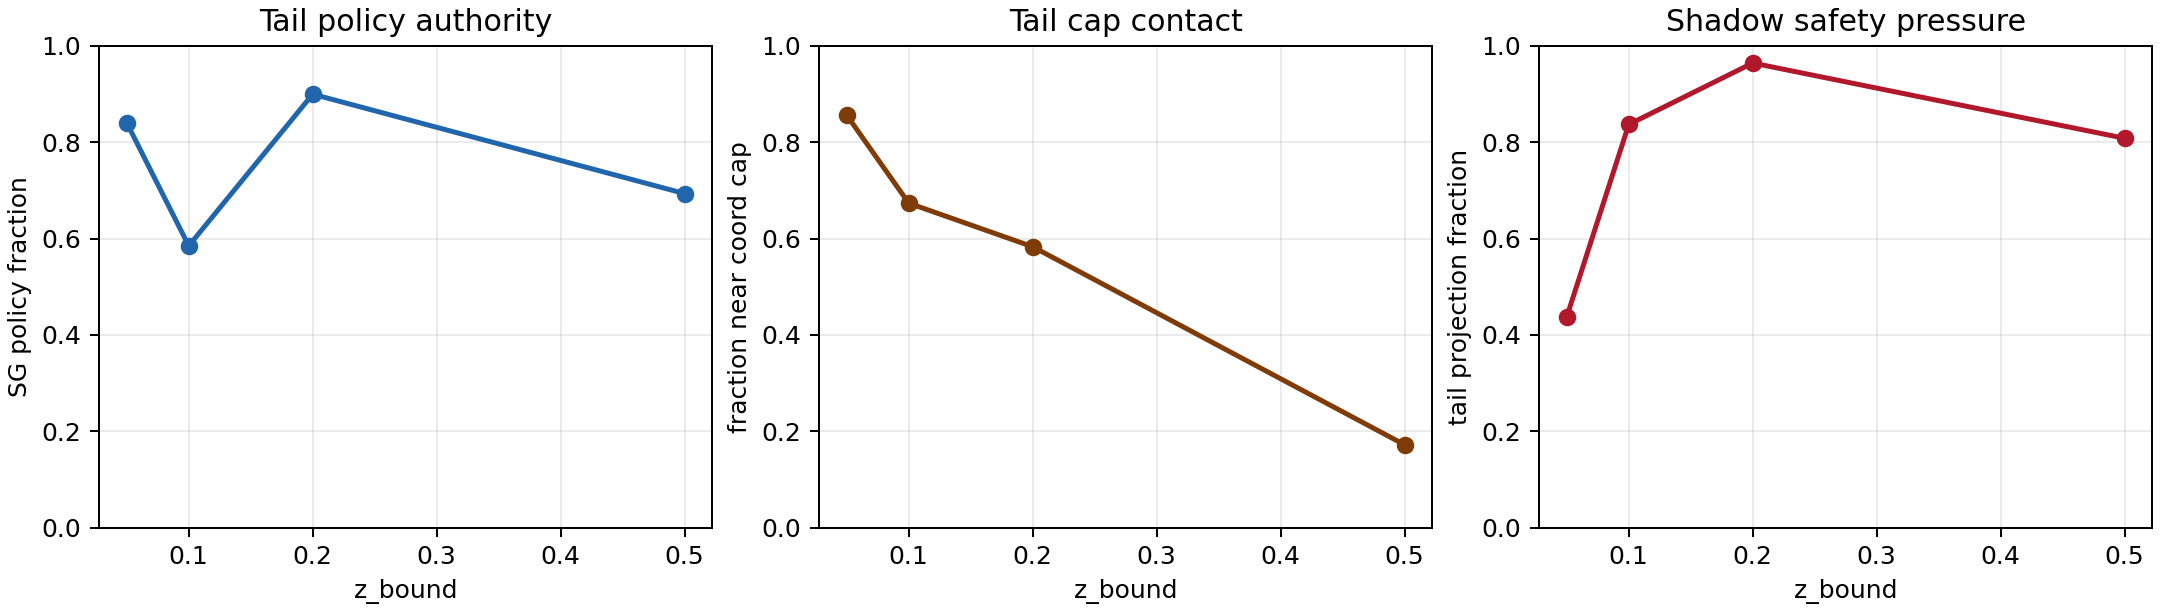
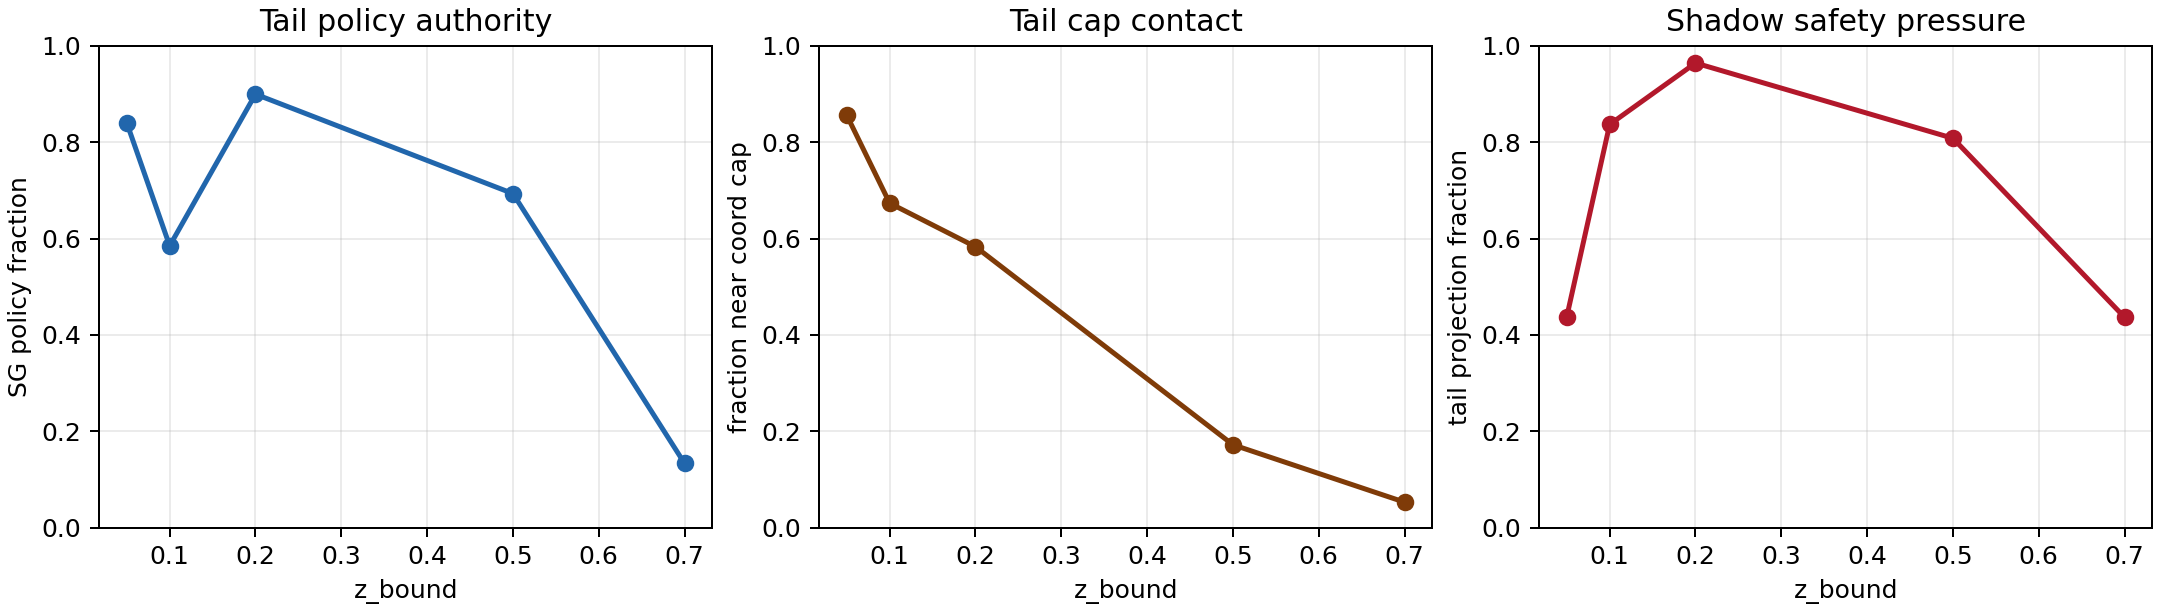
Update polymer Markov z bound analysis for margin run

diff --git a/report/scripts/analyze_polymer_markov_zbound_20260609.py b/report/scripts/analyze_polymer_markov_zbound_20260609.py
@@ -70,6 +70,7 @@ def window_stats(values: np.ndarray, sl: slice) -> tuple[float, float, float]:
 def summarize_run(z_bound: float, rl_path: Path, compare_path: Path | None) -> dict[str, object]:
     data = load_pickle(rl_path)
     compare = load_pickle(compare_path) if compare_path else {}
+    supervisor_gate = data.get("supervisor_gate", {})
 
     rewards_rl = np.asarray(compare.get("avg_rewards_rl", data.get("avg_rewards", [])), float).reshape(-1)
     rewards_mpc = np.asarray(compare.get("avg_rewards_mpc", []), float).reshape(-1)
@@ -102,6 +103,7 @@ def summarize_run(z_bound: float, rl_path: Path, compare_path: Path | None) -> d
         "episodes": int(rewards_rl.size),
         "steps_per_episode": steps_per_episode,
         "warm_episode": warm_episode,
+        "advantage_margin": float(supervisor_gate.get("advantage_margin", float("nan"))),
         "reward_mean_rl": float(np.nanmean(rewards_rl)),
         "reward_tail20_rl": float(np.nanmean(rewards_rl[episode_tail])),
         "reward_final_rl": float(rewards_rl[-1]),
@@ -251,7 +253,8 @@ def main() -> None:
     print()
     for row in rows:
         print(
-            f"z={row['z_bound']:.2f} tail_delta={row['reward_tail20_delta']:.4f} "
+            f"z={row['z_bound']:.2f} margin={row['advantage_margin']:.2f} "
+            f"tail_delta={row['reward_tail20_delta']:.4f} "
             f"tail_rl={row['reward_tail20_rl']:.4f} worst_post={row['reward_worst_postwarm_rl']:.4f} "
             f"tail_z_q95={row['z_norm_tail_q95']:.4f} policy_tail={row['sg_policy_tail_frac']:.4f} "
             f"shadow_tail={row['shadow_projection_tail_frac']:.4f}"

diff --git a/report/polymer_markov_zbound_range_analysis_2026_06_09.md b/report/polymer_markov_zbound_range_analysis_2026_06_09.md
@@ -4,7 +4,7 @@ Date: 2026-06-09
 
 ## Objective
 
-Assess whether the new polymer SG-TD3 Markov standalone run with `z_bound = 0.50` improves on the earlier `0.05`, `0.10`, and `0.20` runs, and whether there is room to expand the Markov correction range further.
+Assess whether the polymer SG-TD3 Markov standalone runs improve as the Markov correction range expands, and diagnose the newest `z_bound = 0.70` run with `advantage_margin = 1.0`.
 
 ## Files Inspected
 
@@ -12,6 +12,7 @@ Assess whether the new polymer SG-TD3 Markov standalone run with `z_bound = 0.50
 - `Polymer/Results/sg_td3_markov_critic_warm3_ls_else_mpc_shadow_disturb_mismatch/20260608_193914/input_data.pkl`
 - `Polymer/Results/sg_td3_markov_critic_warm3_ls_else_mpc_shadow_disturb_mismatch/20260609_013736/input_data.pkl`
 - `Polymer/Results/sg_td3_markov_critic_warm3_ls_else_mpc_shadow_disturb_mismatch/20260609_160219/input_data.pkl`
+- `Polymer/Results/sg_td3_markov_critic_warm3_ls_else_mpc_shadow_disturb_mismatch/20260609_220217/input_data.pkl`
 - Matching compare bundles under `Polymer/Results/disturb_compare_sg_td3_markov_critic_warm3_ls_else_mpc_shadow_mismatch/`
 - Analysis script: `report/scripts/analyze_polymer_markov_zbound_20260609.py`
 - Summary CSV: `report/figures/polymer_markov_zbound_20260609/polymer_markov_zbound_summary.csv`
@@ -30,54 +31,66 @@ The analysis uses the paired compare bundles for OF-MPC reward rather than the `
 
 ## Reward Results
 
-| z_bound | Tail-20 RL reward | Tail-20 OF-MPC reward | Tail reward delta | Final reward delta | Worst post-warm RL reward |
-| ---: | ---: | ---: | ---: | ---: | ---: |
-| 0.05 | -3.7572 | -3.8084 | 0.0512 | 0.0520 | -4.4312 |
-| 0.10 | -3.7485 | -3.8084 | 0.0598 | 0.0424 | -4.4621 |
-| 0.20 | -3.5404 | -3.8084 | 0.2680 | 0.2429 | -4.6140 |
-| 0.50 | -3.0706 | -3.8084 | 0.7378 | 0.7494 | -5.7549 |
+| z_bound | SG margin | Tail-20 RL reward | Tail-20 OF-MPC reward | Tail reward delta | Final reward delta | Worst post-warm RL reward |
+| ---: | ---: | ---: | ---: | ---: | ---: | ---: |
+| 0.05 | 0.0 | -3.7572 | -3.8084 | 0.0512 | 0.0520 | -4.4312 |
+| 0.10 | 0.0 | -3.7485 | -3.8084 | 0.0598 | 0.0424 | -4.4621 |
+| 0.20 | 0.0 | -3.5404 | -3.8084 | 0.2680 | 0.2429 | -4.6140 |
+| 0.50 | 0.0 | -3.0706 | -3.8084 | 0.7378 | 0.7494 | -5.7549 |
+| 0.70 | 1.0 | -2.9041 | -3.8084 | 0.9043 | 0.8932 | -7.7115 |
 
-The `0.50` run is clearly the best tail performer in this sweep. It improves tail reward by about `0.738` over OF-MPC, compared with `0.268` for `0.20`.
+The `0.70` run is the best tail performer so far. It improves tail reward by about `0.904` over OF-MPC, compared with `0.738` for `0.50`.
 
-The tradeoff is the worst post-warm episode. The `0.50` run has the worst release downside among the four runs, with worst post-warm reward `-5.7549`.
+The tradeoff is the worst post-warm episode. The `0.70` run has the largest release downside, with worst post-warm reward `-7.7115`.
 
 ![Reward and z usage](figures/polymer_markov_zbound_20260609/polymer_markov_zbound_reward_and_usage.png)
 
 ## Action And Safety Diagnostics
 
-| z_bound | Tail z 2-norm q95 | Tail z 2-norm max | Tail policy fraction | Tail near-coordinate-cap fraction | Tail shadow projection fraction |
-| ---: | ---: | ---: | ---: | ---: | ---: |
-| 0.05 | 0.1000 | 0.1000 | 0.8396 | 0.8554 | 0.4379 |
-| 0.10 | 0.2000 | 0.2000 | 0.5848 | 0.6733 | 0.8363 |
-| 0.20 | 0.3923 | 0.4000 | 0.8991 | 0.5829 | 0.9637 |
-| 0.50 | 0.9866 | 1.0000 | 0.6931 | 0.1725 | 0.8077 |
+| z_bound | SG margin | Tail z 2-norm q95 | Tail z 2-norm max | Tail policy fraction | Tail near-coordinate-cap fraction | Tail shadow projection fraction |
+| ---: | ---: | ---: | ---: | ---: | ---: | ---: |
+| 0.05 | 0.0 | 0.1000 | 0.1000 | 0.8396 | 0.8554 | 0.4379 |
+| 0.10 | 0.0 | 0.2000 | 0.2000 | 0.5848 | 0.6733 | 0.8363 |
+| 0.20 | 0.0 | 0.3923 | 0.4000 | 0.8991 | 0.5829 | 0.9637 |
+| 0.50 | 0.0 | 0.9866 | 1.0000 | 0.6931 | 0.1725 | 0.8077 |
+| 0.70 | 1.0 | 0.9216 | 1.4000 | 0.1338 | 0.0535 | 0.4366 |
 
-The `0.50` run is not merely better because of noise. It uses the larger authority:
+The `0.50` run was not merely better because of noise. It used the larger authority:
 
 - The tail q95 z 2-norm is `0.9866`, close to the four-coordinate vector cap of `1.0`.
 - Tail policy selection is still substantial at `69.3%`, so the actor is active.
 - Tail shadow projection remains high at `80.8%`, meaning the inactive shadow safety layer would still modify many requested actions.
 
+The `0.70` run changes two variables at once: larger range and stricter SG margin. It has a better tail reward, but the mechanism is different:
+
+- Tail policy selection drops from `69.3%` at `0.50` to `13.4%` at `0.70`.
+- Post-warm policy selection drops from `63.5%` to `6.9%`.
+- The tail improvement is therefore not mainly caused by more frequent TD3 execution. It is mostly a wider, supervisor-dominated Markov correction regime with occasional TD3 actions.
+- The stricter margin does reduce actor passes, but it does not fix the release problem. Worst post-warm reward worsens from `-5.7549` to `-7.7115`.
+
 ![Source and safety diagnostics](figures/polymer_markov_zbound_20260609/polymer_markov_zbound_source_and_safety.png)
 
 ## Interpretation
 
-The `0.50` result supports your observation: increasing from `0.20` to `0.50` helped polymer Markov substantially. The learned actor appears to benefit from more Markov authority in the tail.
+The `0.70` result supports the observation that the latest Markov run is better in the tail. It also supports the hypothesis that `advantage_margin = 1.0` reduces the number of actor actions that pass the SG gate.
 
-There is probably some room to test a slightly larger range, but the room is not open-ended:
+However, the stricter margin did not solve the post-warm transient. The post-warm crash became worse even though far fewer actor actions passed. That suggests the early downside is not only a TD3-policy release problem. The wider LS/MPC supervisor candidates can also become aggressive when the z range expands.
 
-- Evidence for more room: tail reward continues improving from `0.05` to `0.10` to `0.20` to `0.50`, and high-z episodes are not automatically bad in the mature tail.
-- Evidence against a large jump: the `0.50` tail q95 z norm is already `98.7%` of the vector cap, and the max reaches the cap. The actor is often asking for very large corrections.
-- Safety warning: worst post-warm reward worsens as the range expands. The `0.50` run has a stronger tail but a larger early release dip.
+The evidence now says:
+
+- Larger range improves mature-tail reward up to the tested `0.70` case.
+- The SG margin of `1.0` strongly reduces policy passes.
+- Tail reward can still improve with fewer TD3 passes, so the supervisor Markov candidate is doing useful work under the wider range.
+- Worst post-warm reward worsens as the range expands, so release safety needs a range schedule, not only a stricter critic margin.
 
 ## Recommended Next Experiment
 
-Run one cautious expansion before changing the default again:
+Do not expand beyond `0.70` yet. The next clean ablation should separate the range effect from the margin effect:
 
 - File: `RL_assisted_MPC_markov_unified.py`
-- Override: `Z_BOUND_OVERRIDE = 0.65`
-- Keep `agent_mode = "sg"` and keep `markov_live_safety_mode = "shadow_only"` so the comparison isolates the range change.
-- Compare against the current `0.50` run using:
+- Run A: `z_bound = 0.70`, `advantage_margin = 0.0`
+- Run B: `z_bound = 0.50`, `advantage_margin = 1.0`
+- Compare both against the current `z_bound = 0.70`, `advantage_margin = 1.0` run using:
   - tail-20 reward delta versus OF-MPC,
   - worst first-20 post-warm reward,
   - tail z 2-norm q95 and max,
@@ -85,8 +98,8 @@ Run one cautious expansion before changing the default again:
   - shadow projection fraction,
   - SG policy versus supervisor fractions.
 
-Accept `0.65` only if it improves tail reward without making the worst post-warm reward materially worse than `-5.75`. If `0.65` still improves but increases release risk, the better next change is not a larger bound. It is a post-warm z-bound ramp, for example starting near `0.20` and ramping to `0.65` over the first 20 post-warm episodes.
+If Run A improves tail reward but keeps the same poor release, the range is the main release-risk source. If Run B reduces the release crash but loses tail reward, the margin is too conservative for the tail. The likely final design is a post-warm z-bound ramp, for example starting near `0.20` and ramping to `0.70`, with a margin that relaxes from `1.0` toward `0.0` after the first 20 post-warm episodes.
 
 ## Remaining Uncertainty
 
-This sweep has one run per bound. The trend is strong enough to justify testing `0.65`, but not enough to claim the optimum. A two- or three-seed repeat at `0.50` and `0.65` is needed before locking in a larger default.
+This sweep has one run per setting, and the `0.70` point changes both range and SG margin. The tail trend is strong, but the causal mechanism is not isolated. A two- or three-seed repeat of `0.50 margin 0.0`, `0.70 margin 1.0`, and the two proposed ablations is needed before locking in the larger range.
